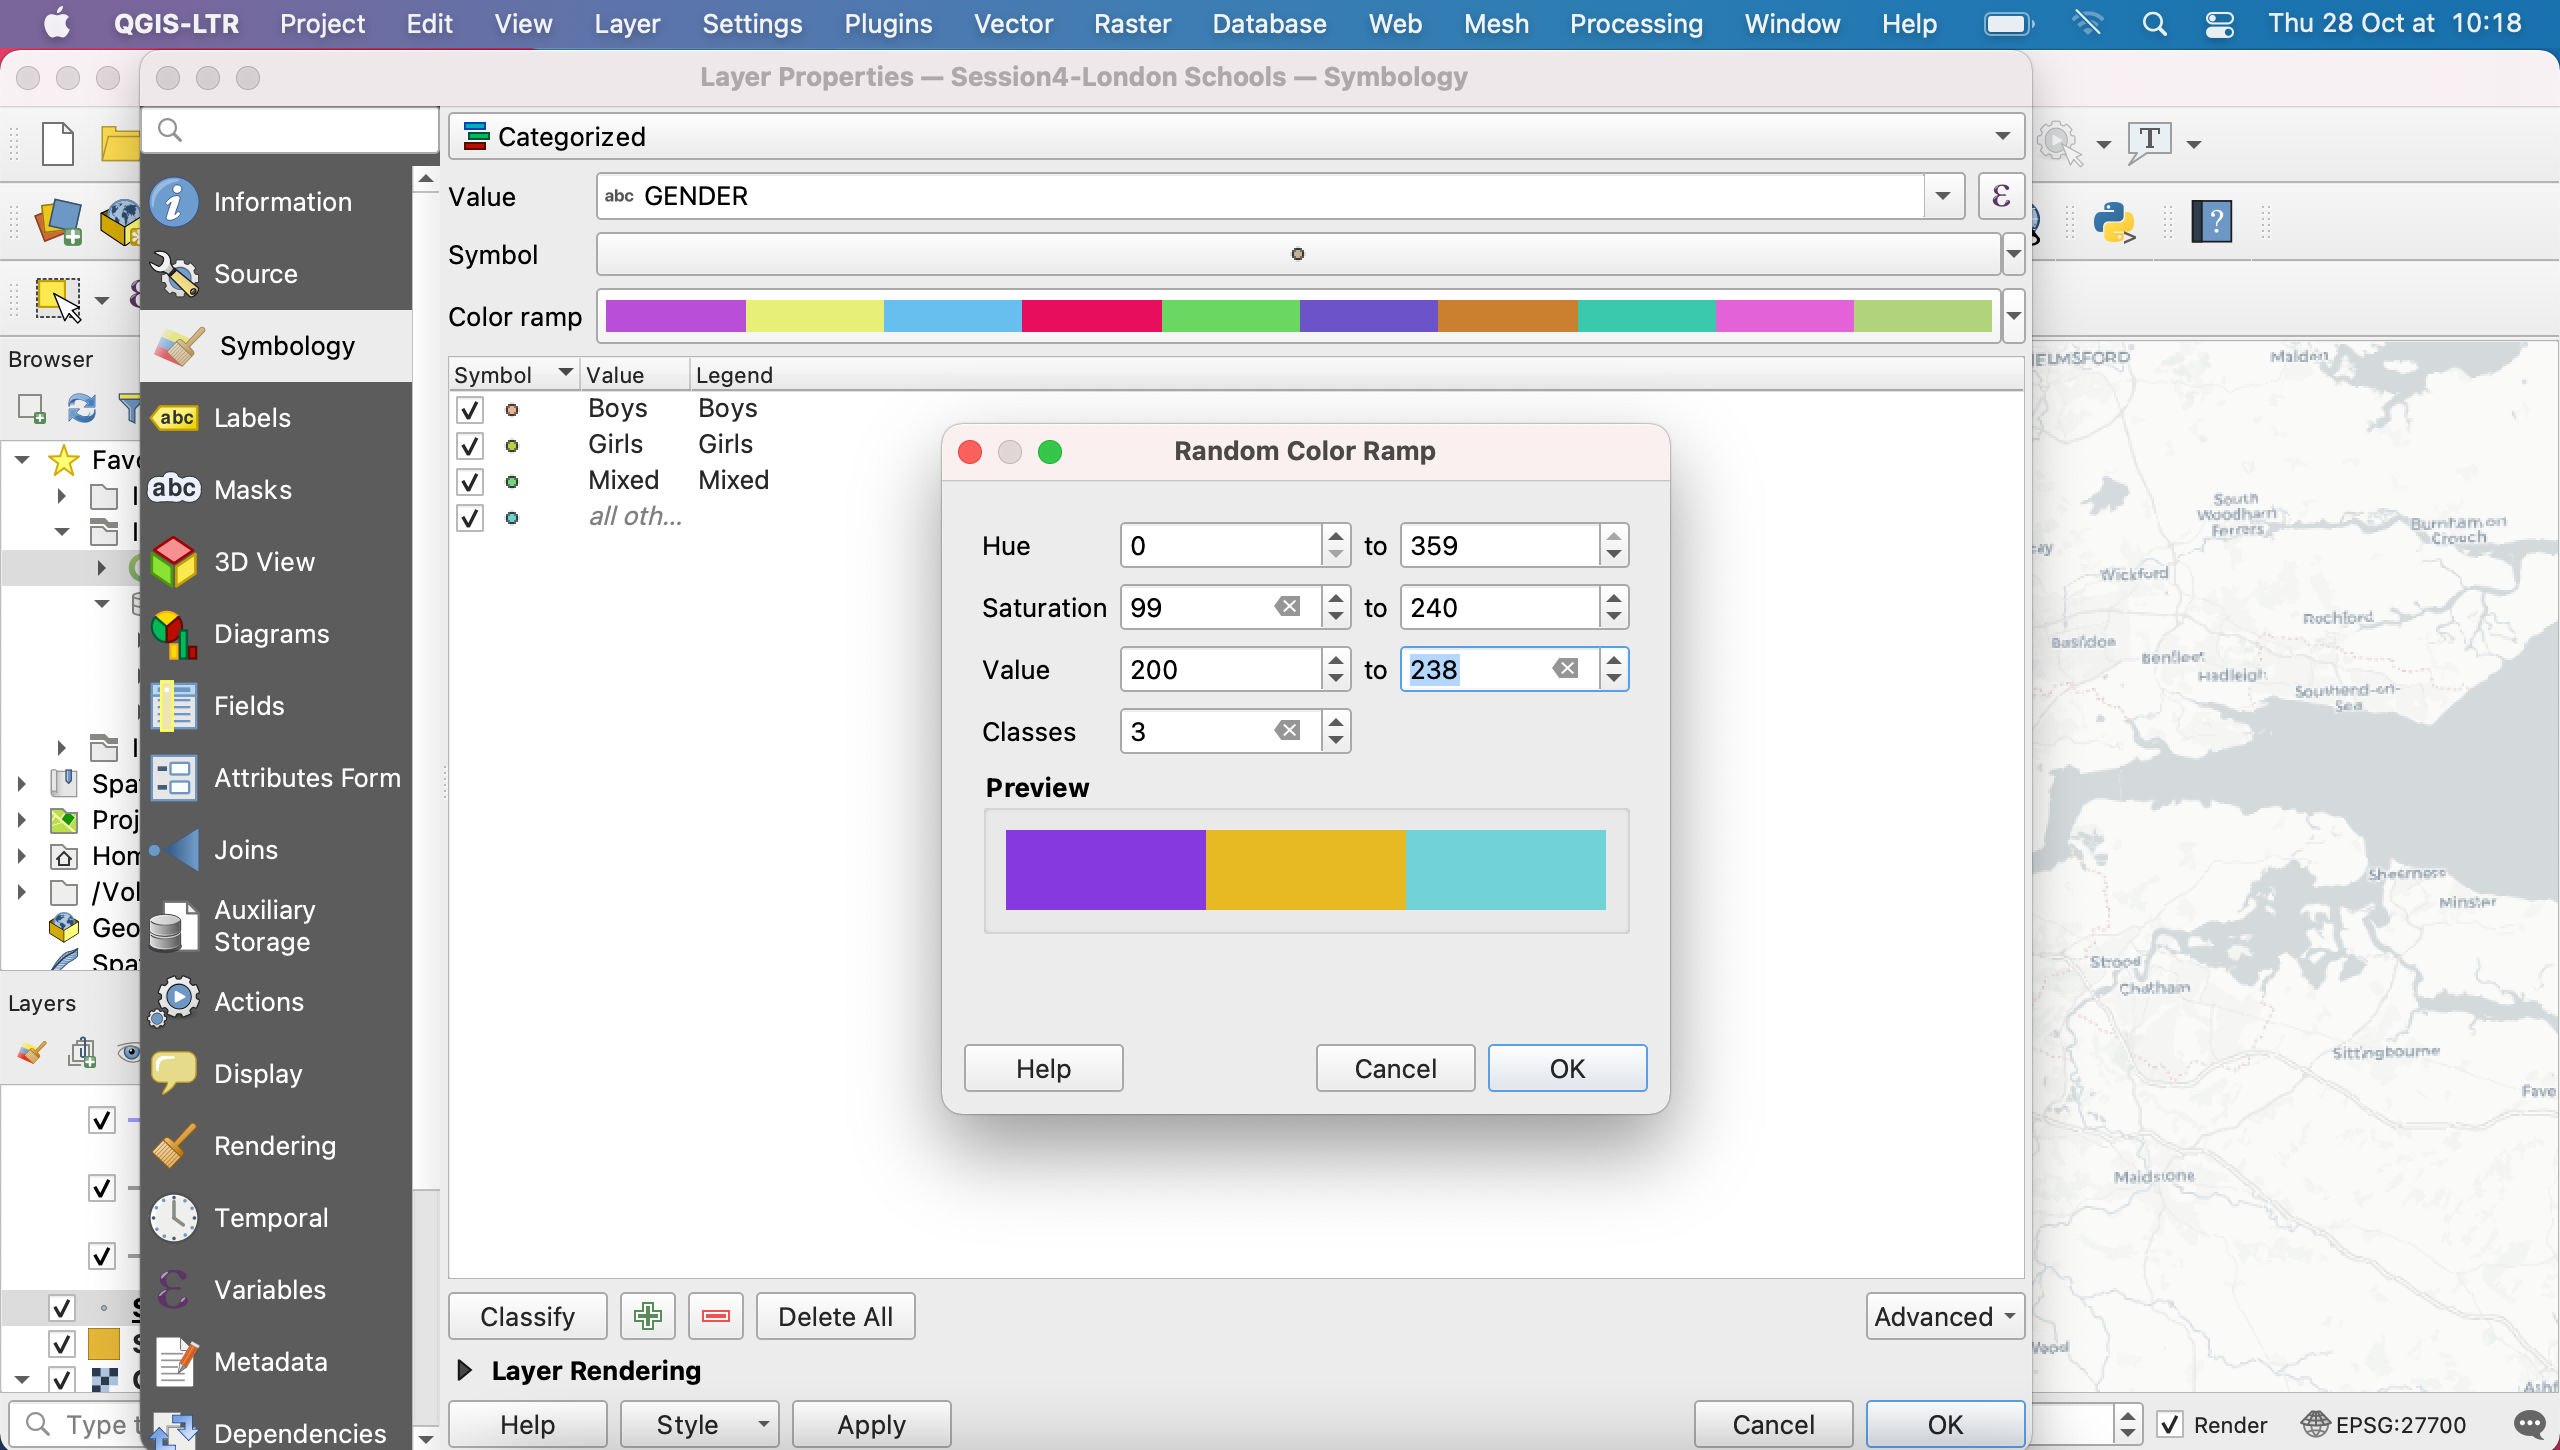
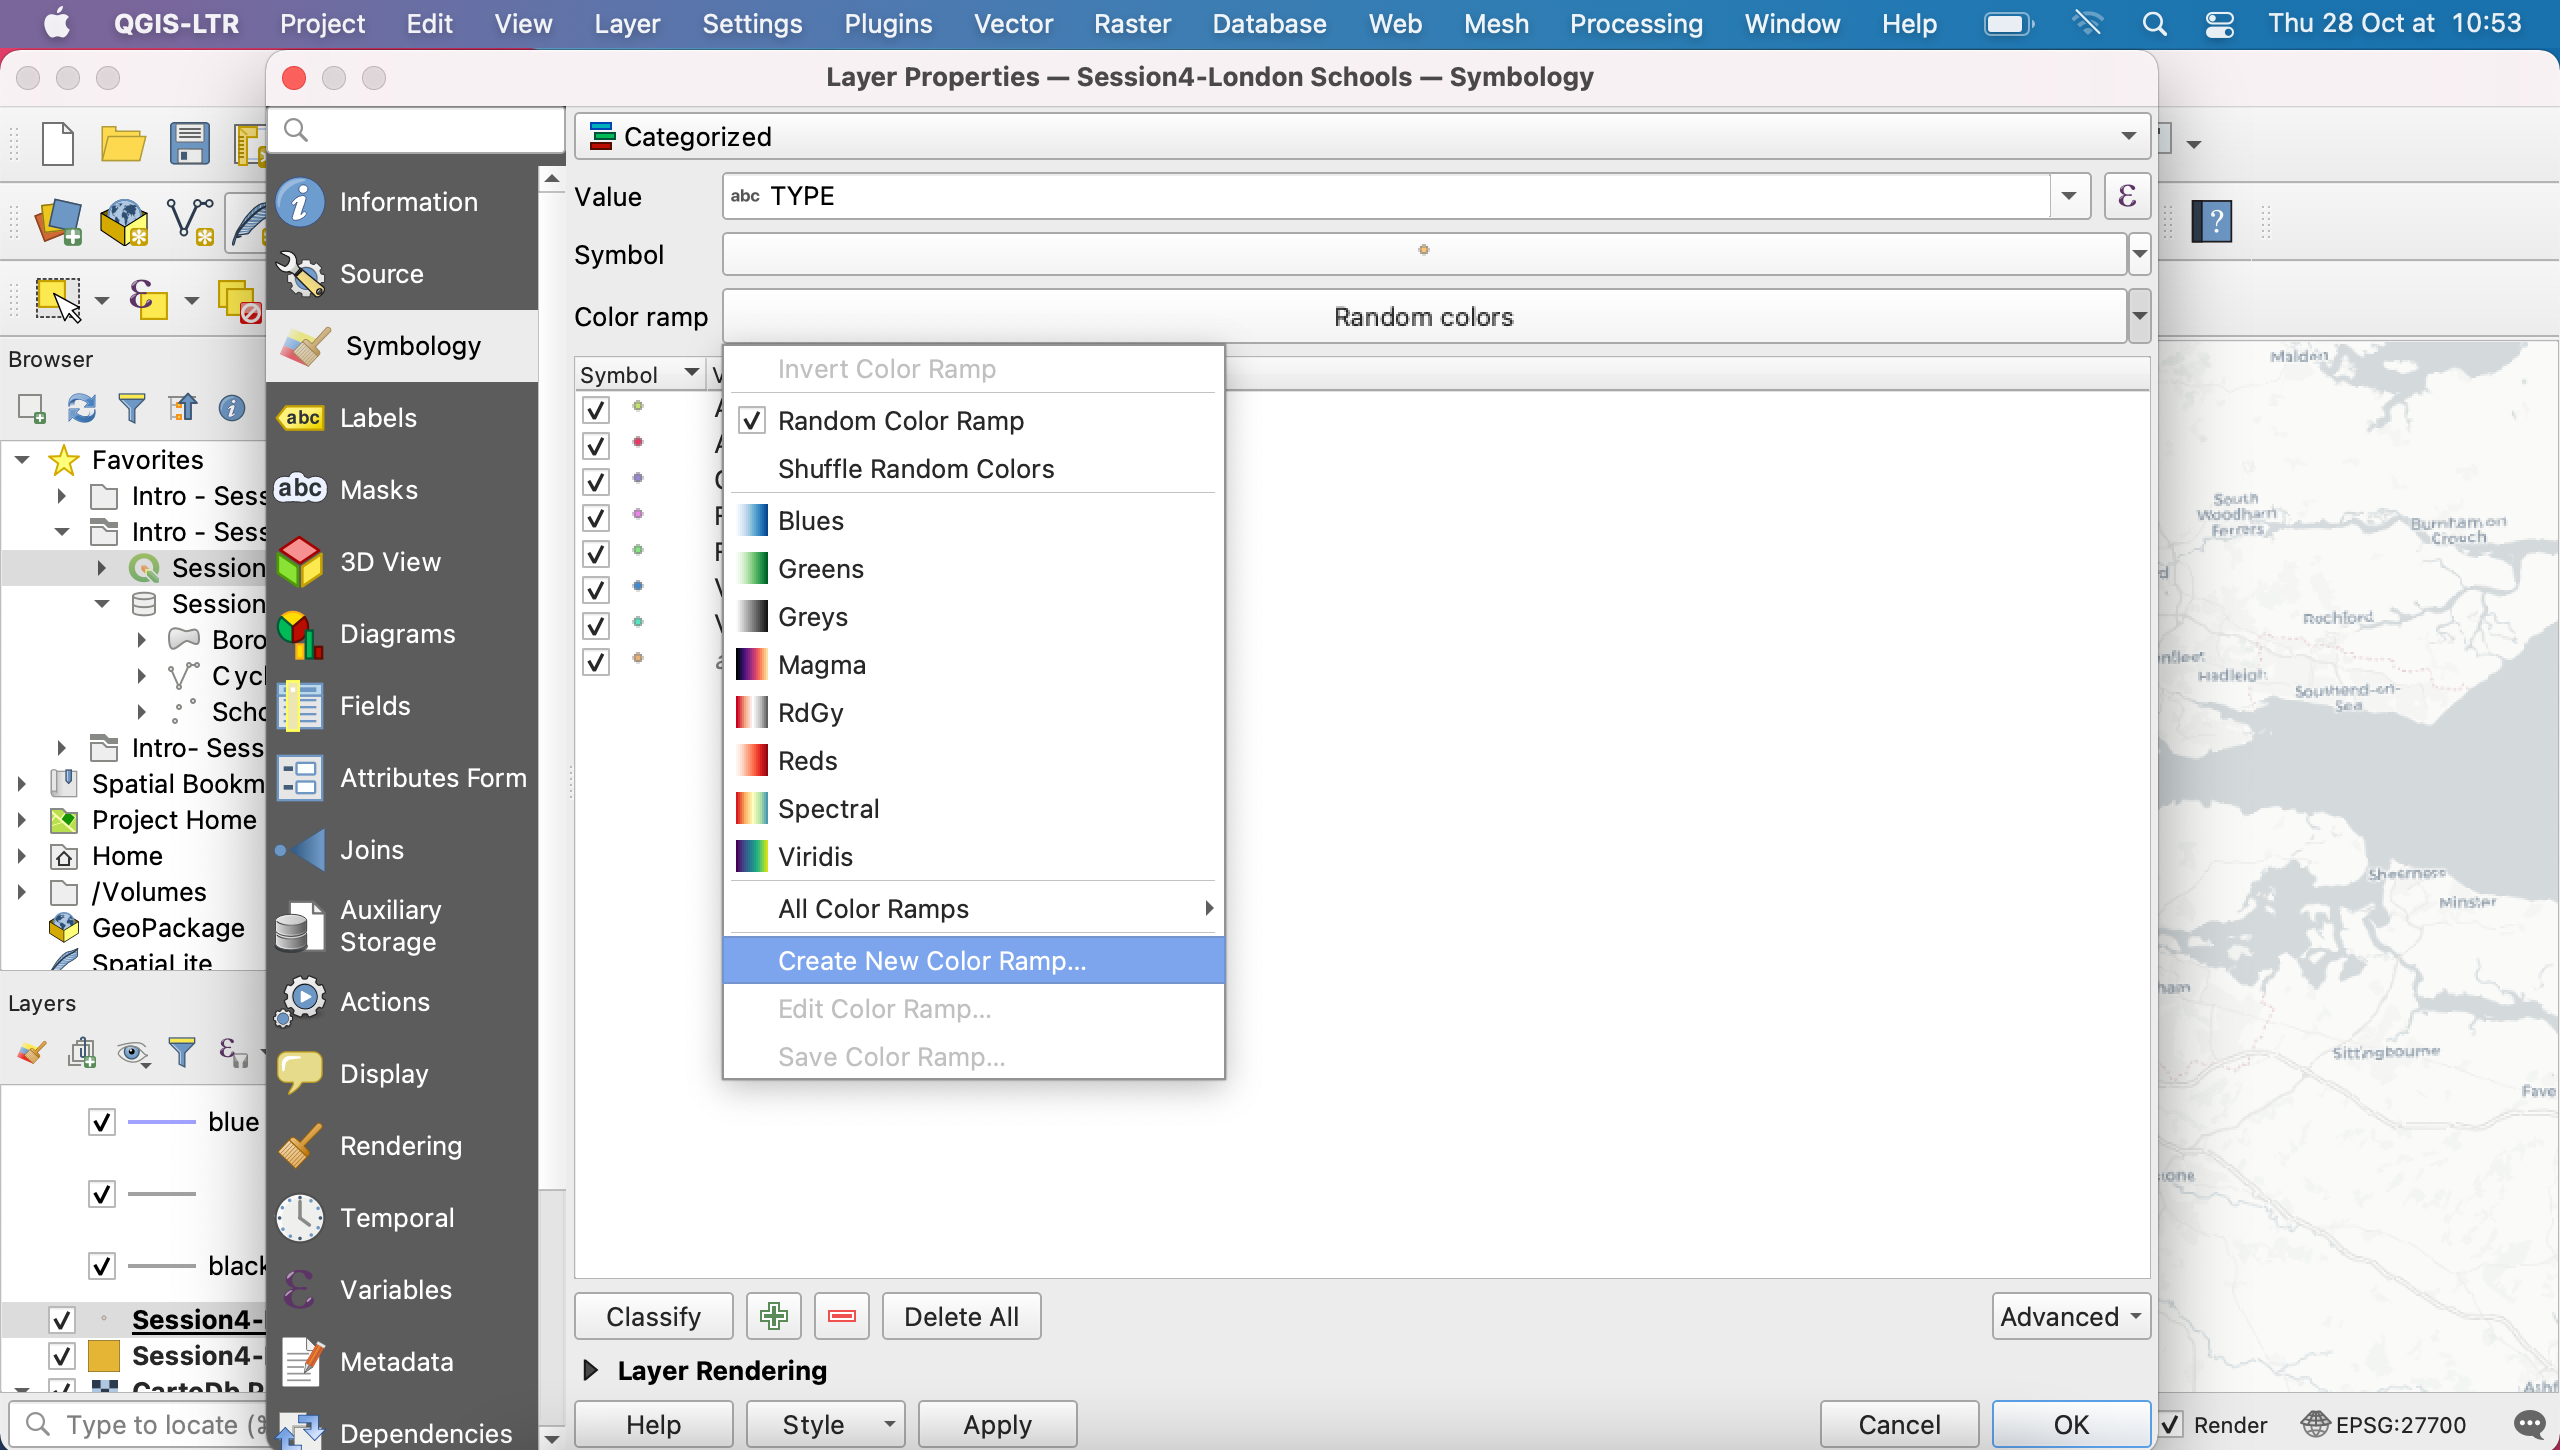
tutorial updates

Changed region(s): [[0.0, 0.031, 0.875, 1.0], [0.2812, 0.031, 0.625, 0.0621]]

diff --git a/Session4/session4_tutorial.md b/Session4/session4_tutorial.md
@@ -138,16 +138,44 @@ We are now interested in displaying the different types of schools in different 
 
 <img src="../img/S4-18.png" width="700">
 
-Click `Classify` to load the Types values into your legend. Note that you can update your base symbol (click on the `Symbol` dropdown arrow then `Configure symbol`) and choose a specific colour ramp from the many available. Because we are using categorical variables here, we prefer to avoid using a sequential palette which would imply some form of order among the values (there is no order here, they're just three different values). You can also edit each symbol one by one by clicking on them directly.
+Click `Classify` to load the Types values into your legend. Note that you can update your base symbol (click on the `Symbol` dropdown arrow then `Configure symbol`):
 
 <img src="../img/S4-19.png" width="700">
 
-You can explore the many options available to you in the colour ramp (including shuffling the colours currently assigned to your values, creating your own random colour palette or editing existing ones).
+
+By default, QGIS has a assigned random colours to each point. You can also choose a specific colour ramp from the many available by clicking on the `Color Ramp` dropdown arrow. Because we are using categorical variables here, we prefer to avoid using a sequential palette which would imply some form of order among the values (there is no order here, they're just three different values). 
 
 <img src="../img/S4-20.png" width="700">
 
+You can explore the many options available to you in the colour ramp including shuffling the colours currently assigned to your values, creating your own random colour palette or editing existing ones.
+
+<img src="../img/S4-22.png" width="700">
+
+You can also edit each symbol individually, one by one, by clicking on them directly. You then get access to the same customisation options as you had under `Single symbol` earlier.
+
+
+<img src="../img/S4-23.png" width="700">
+
+
 
 To go further, read more about the symbology on the [Documentation](https://docs.qgis.org/3.16/en/docs/training_manual/basic_map/symbology.html)
+
+
+
+**3.3 Lines symbology**
+
+
+
+**3.4 Polygons symbology**
+
+
+**3.5 Spatial bookmarks**
+
+
+Spatial bookmarks
+https://docs.qgis.org/3.16/en/docs/user_manual/introduction/general_tools.html#spatial-bookmarks 
+
+**3.6 Scale dependent rendering**
 
 
 
@@ -155,11 +183,21 @@ You can also play with scale dependent rendering; using this feature, you contro
 https://docs.qgis.org/3.16/en/docs/user_manual/introduction/general_tools.html#scale-dependent-rendering
 
 
+### 4. Building a Choropleth
 
+**4.1**
 
-Spatial bookmarks
-https://docs.qgis.org/3.16/en/docs/user_manual/introduction/general_tools.html#spatial-bookmarks 
+**4.2**
 
+**4.3**
 
-Note: the colour selector can be a useful
-https://docs.qgis.org/3.16/en/docs/user_manual/introduction/general_tools.html#color-selector 
+### 5. Exporting a map: setting up a layout and adding map elements (north arrow, scale bar, legend, title etc.) 
+
+**5.1**
+
+**5.2**
+
+**5.3**
+
+**5.4**
+
